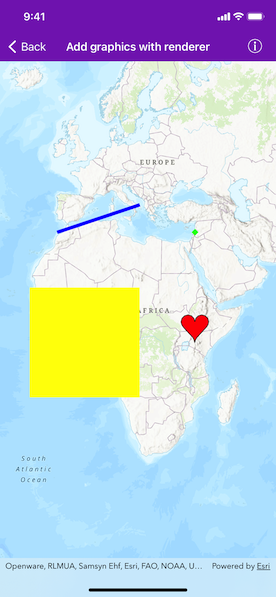
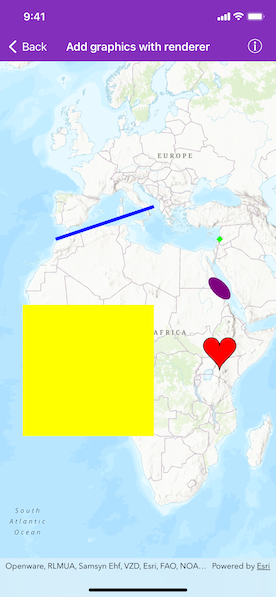
Add ellipse to the sample.

diff --git a/arcgis-ios-sdk-samples/Display information/Add graphics with renderer/AddGraphicsWithRendererViewController.swift b/arcgis-ios-sdk-samples/Display information/Add graphics with renderer/AddGraphicsWithRendererViewController.swift
@@ -26,6 +26,7 @@ class AddGraphicsWithRendererViewController: UIViewController {
                 makePointGraphicsOverlay(),
                 makeLineGraphicsOverlay(),
                 makeSquarePolygonGraphicsOverlay(),
+                makeEllipseGraphicsOverlay(),
                 makeCurvedPolygonGraphicsOverlay()
             ])
         }
@@ -85,6 +86,35 @@ class AddGraphicsWithRendererViewController: UIViewController {
         // Add the graphic to the overlay.
         squareGraphicsOverlay.graphics.add(polygonGraphic)
         return squareGraphicsOverlay
+    }
+    
+    func makeEllipseGraphicsOverlay() -> AGSGraphicsOverlay {
+        // Create a simple fill symbol.
+        let ellipseSymbol = AGSSimpleFillSymbol(style: .solid, color: .purple, outline: nil)
+        // Create a graphics overlay for the ellipse.
+        let ellipseGraphicsOverlay = AGSGraphicsOverlay()
+        // Create and assign a simple renderer to the graphics overlay.
+        ellipseGraphicsOverlay.renderer = AGSSimpleRenderer(symbol: ellipseSymbol)
+        
+        // Create an ellipse graphic.
+        let ellipseCenter = AGSPoint(x: 40e5, y: 25e5, spatialReference: .webMercator())
+        let parameters = AGSGeodesicEllipseParameters(
+            axisDirection: -45,
+            angularUnit: .degrees(),
+            center: ellipseCenter,
+            linearUnit: .kilometers(),
+            maxPointCount: 100,
+            maxSegmentLength: 20,
+            geometryType: .polygon,
+            semiAxis1Length: 200,
+            semiAxis2Length: 400
+        )
+        let ellipseGeometry = AGSGeometryEngine.geodesicEllipse(with: parameters)
+        let ellipseGraphic = AGSGraphic(geometry: ellipseGeometry, symbol: nil)
+        
+        // Add the graphic to the overlay.
+        ellipseGraphicsOverlay.graphics.add(ellipseGraphic)
+        return ellipseGraphicsOverlay
     }
     
     func makeCurvedPolygonGraphicsOverlay() -> AGSGraphicsOverlay {

diff --git a/arcgis-ios-sdk-samples/Display information/Add graphics with renderer/README.md b/arcgis-ios-sdk-samples/Display information/Add graphics with renderer/README.md
@@ -24,7 +24,9 @@ Pan and zoom on the map to view graphics for points, lines, and polygons (includ
 
 * AGSCubicBezierSegment
 * AGSEllipticArcSegment
+* AGSGeodesicEllipseParameters
 * AGSGeometry
+* class AGSGeometryEngine.geodesicEllipse(with:)
 * AGSGraphic
 * AGSGraphicsOverlay
 * AGSMutablePart
@@ -41,4 +43,4 @@ To set unique symbols across a number of graphics (e.g. showing graphics of indi
 
 ## Tags
 
-arc, bezier, curve, display, graphics, marker, overlay, renderer, segment, symbol, true curve
+arc, bezier, curve, display, ellipse, graphics, marker, overlay, renderer, segment, symbol, true curve
